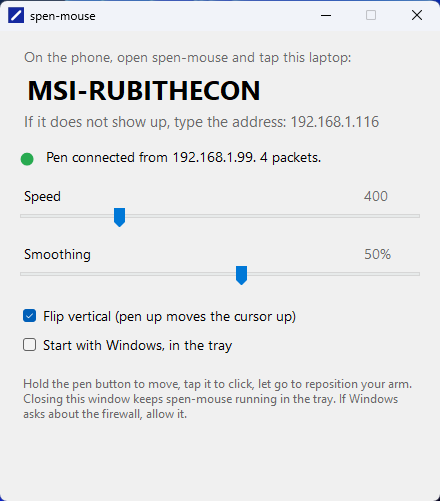
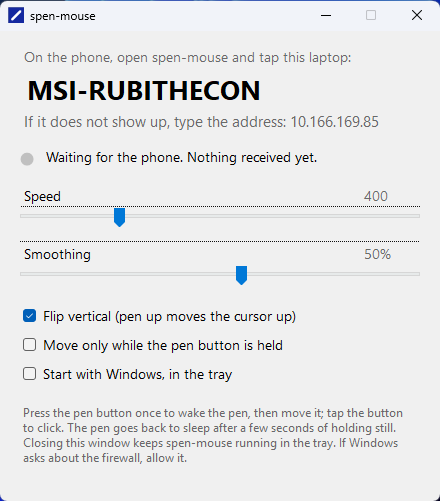
README wording for wake-on-press; receiver screenshot with the hold-to-move option

Changed region(s): [[0.0295, 0.6587, 0.9455, 0.9281], [0.0295, 0.2994, 0.7386, 0.3293], [0.6795, 0.2096, 0.8568, 0.2695]]

diff --git a/README.md b/README.md
@@ -1,6 +1,6 @@
 # spen-mouse
 
-An air mouse for Windows, powered by the Galaxy S Pen. Hold the button, wave the pen, the cursor follows. Tap the button to click.
+An air mouse for Windows, powered by the Galaxy S Pen. Press the button, wave the pen, the cursor follows. Tap the button to click. Works with any Galaxy whose S Pen has Bluetooth, up to the S24 Ultra.
 
 Inspired by [AirPointer](https://github.com/musubipapi/airpointer), which did this with a closed AirPods case and a lot of reverse engineering. The S Pen version is easier: Samsung publishes an [SDK](https://developer.samsung.com/galaxy-spen-remote/s-pen-remote-sdk.html) that streams the pen's motion to the phone.
 
